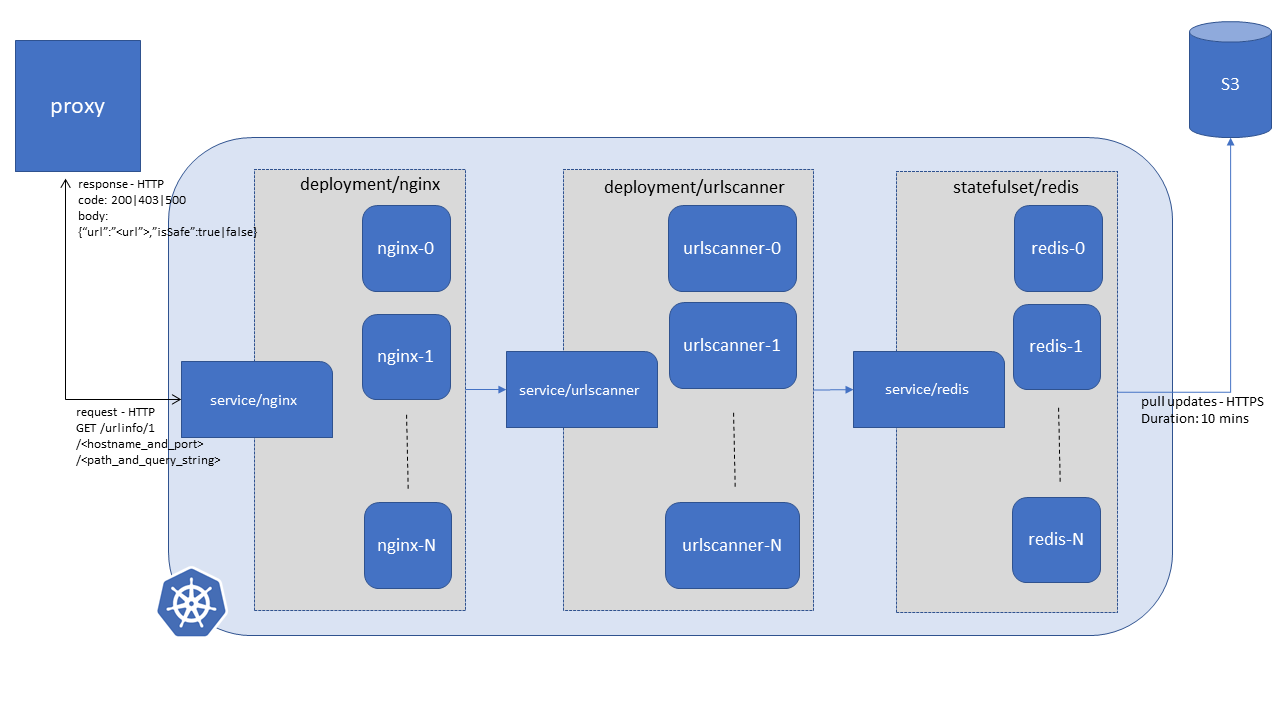
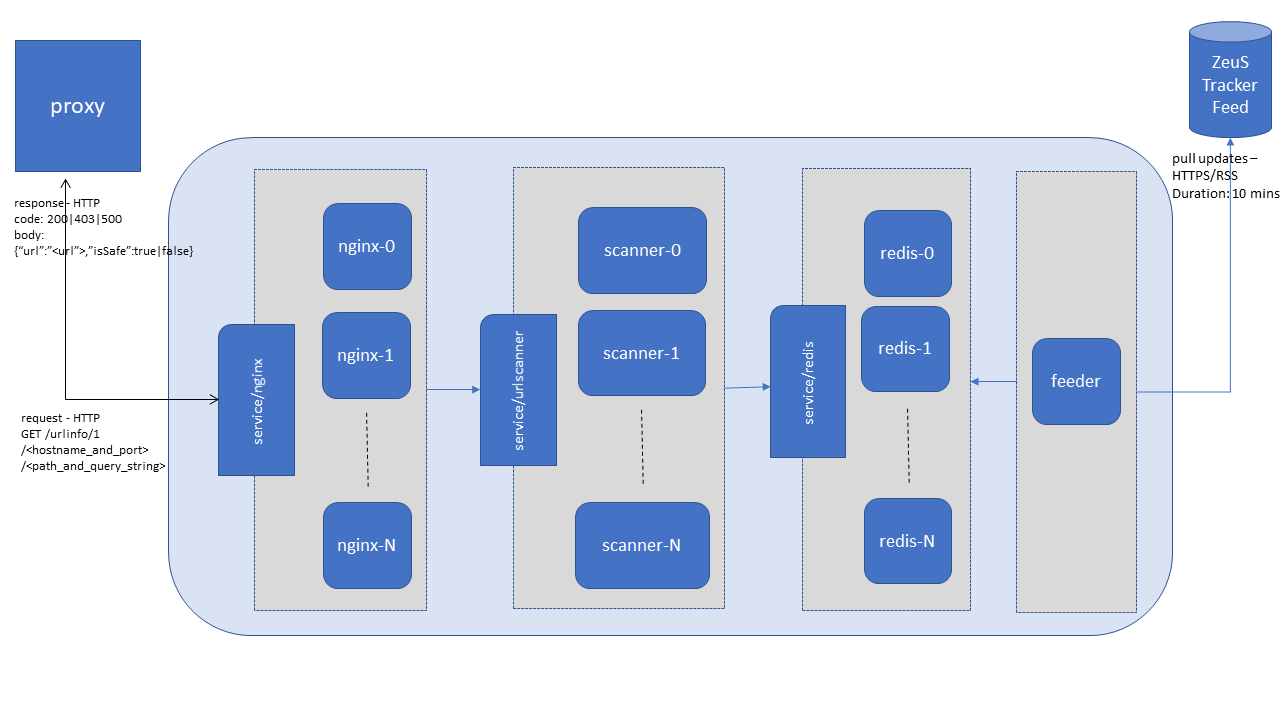
Update system design

diff --git a/README.md b/README.md
@@ -2,7 +2,23 @@
 
 [ ![Codeship Status for ihcsim/url-scanner](https://app.codeship.com/projects/52115f30-53eb-0135-fd18-160627fc0fd3/status?branch=master)](https://app.codeship.com/projects/235123)
 
-zapit provides a scanner that checks a URL to determine if the URL is on the ZeuS Tracker's blocklists.
+zapit provides a scanner that checks a URL or IP to determine if the URL is on the ZeuS Tracker's blocklists. It is made up of 4 components:
+
+* nginx proxies traffic in and out of the system.
+* scanner handles user's request by extracting the URL to be scanned from the request.
+* redis stores a list of blocked URLs obtained from [ZeuS Tracker](https://zeustracker.abuse.ch/blocklist.php).
+* feeder polls the ZeuS Tracker website and RSS Feed for new blocked URLs
+
+![System Design](https://github.com/ihcsim/zapit/raw/master/img/system-design.png)
+
+zapit reads from the following lists:
+
+* https://zeustracker.abuse.ch/blocklist.php?download=baddomains - ZeuS domain blocklist "BadDomains"
+* https://zeustracker.abuse.ch/blocklist.php?download=badips - ZeuS IP blocklist "BadIPs"
+* https://zeustracker.abuse.ch/rss.php - This feed shows the latest twenty ZeuS hosts which the tracker has captured.
+* https://zeustracker.abuse.ch/removals.php?show=rss - This feed shows the ZeuS hosts which were removedf from the tracker list.
+
+![System Design](https://github.com/ihcsim/zapit/raw/master/img/system-design.png)
 
 ## Table of Content
 
@@ -18,10 +34,6 @@ The following is a list of software needed to run zapit:
 
 * Docker 17.05 CE
 * Docker Compose 1.13.0
-
-## System Design
-
-![System Design](https://github.com/ihcsim/zapit/raw/master/img/system-design.png)
 
 ## Request Format
 The URL to be scanned will be appended as query string in a `GET` request as follows:
